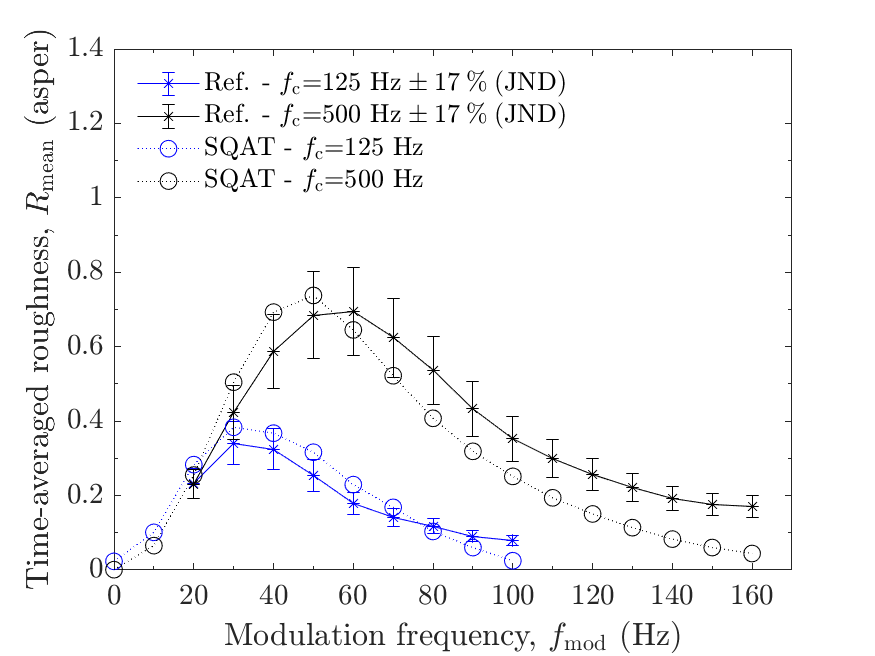
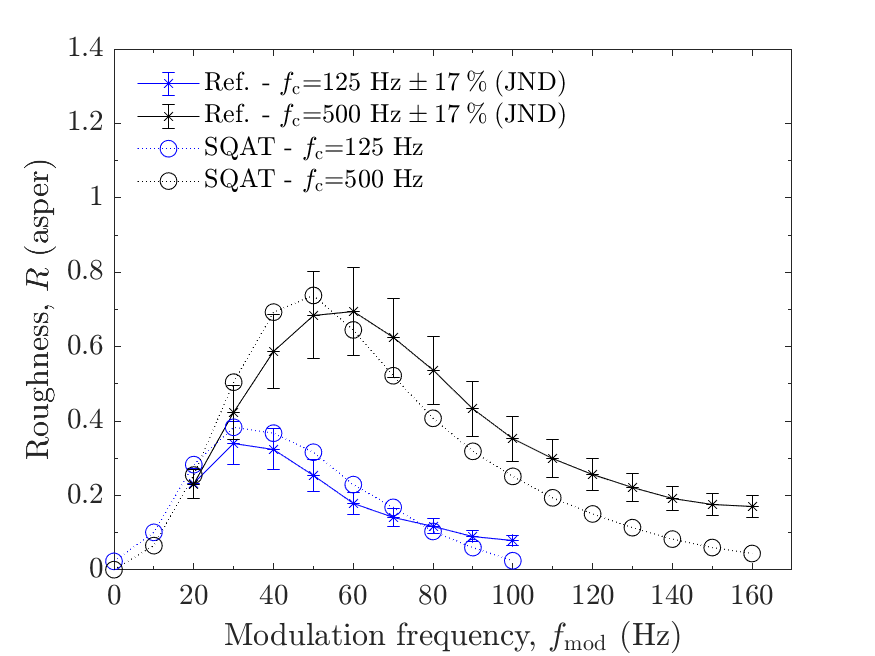
roughness validation
- fixing links of the model implementation on README.md
- fixing yaxis and limits for consistency

Changed region(s): [[0.0309, 0.0305, 0.0617, 0.8841]]

diff --git a/validation/Roughness_Daniel1997/1_AM_modulation_freq/run_validation_roughness_fmod.m b/validation/Roughness_Daniel1997/1_AM_modulation_freq/run_validation_roughness_fmod.m
@@ -26,7 +26,7 @@
 %%%%%%%%%%%%%%%%%%%%%%%%%%%%%%%%%%%%%%%%%%%%%%%%%%%%%%%%%%%%%%%%%%%%%%%%%%%
 clc; clear all; close all;
 
-save_figs = 1; %% save figs flag
+save_figs = 0; %% save figs flag
 
 %% path settings 
 
@@ -254,7 +254,7 @@ axis([0 170 0 1.4]);
      ax.YAxis.MinorTick = 'on';
      ax.YAxis.MinorTickValues = 0:0.1:1.2; 
      
-ylabel('Time-averaged roughness, $R_{\mathrm{mean}}$ (asper)','Interpreter','Latex');
+ylabel('Roughness, $R$ (asper)','Interpreter','Latex');
 xlabel('Modulation frequency, $f_{\mathrm{mod}}$ (Hz)','Interpreter','Latex');
 
 set(gcf,'color','w');
@@ -306,7 +306,7 @@ axis([0 170 0 1.4]);
      ax.YAxis.MinorTick = 'on';
      ax.YAxis.MinorTickValues = 0:0.1:1.4; 
      
-ylabel('Time-averaged roughness, $R_{\mathrm{mean}}$ (asper)','Interpreter','Latex');
+ylabel('Roughness, $R$ (asper)','Interpreter','Latex');
 xlabel('Modulation frequency, $f_{\mathrm{mod}}$ (Hz)','Interpreter','Latex');
 
 set(gcf,'color','w');
@@ -369,7 +369,7 @@ axis([0 170 0 1.8]);
      ax.YAxis.MinorTick = 'on';
      ax.YAxis.MinorTickValues = 0:0.1:2; 
      
-ylabel('Time-averaged roughness, $R_{\mathrm{mean}}$ (asper)','Interpreter','Latex');
+ylabel('Roughness, $R$ (asper)','Interpreter','Latex');
 xlabel('Modulation frequency, $f_{\mathrm{mod}}$ (Hz)','Interpreter','Latex');
 
 set(gcf,'color','w');
@@ -430,7 +430,7 @@ axis([0 170 0 1.2]);
      ax.YAxis.MinorTick = 'on';
      ax.YAxis.MinorTickValues = 0:0.1:1.2; 
      
-ylabel('Time-averaged roughness, $R_{\mathrm{mean}}$ (asper)','Interpreter','Latex');
+ylabel('Roughness, $R$ (asper)','Interpreter','Latex');
 xlabel('Modulation frequency, $f_{\mathrm{mod}}$ (Hz)','Interpreter','Latex');
 
 set(gcf,'color','w');

diff --git a/validation/Roughness_Daniel1997/4_FM_level/run_validation_roughness_FM_level.m b/validation/Roughness_Daniel1997/4_FM_level/run_validation_roughness_FM_level.m
@@ -95,7 +95,7 @@ ax.XAxis.MinorTick = 'on';
 ax.YAxis.MinorTick = 'on';
 ax.YAxis.MinorTickValues = 0:0.1:3;
      
-ylabel('$R/R_0$ (\%)','Interpreter','Latex');
+ylabel('Relative roughness, $R/R_0$ (\%)','Interpreter','Latex');
 xlabel('Sound pressure level, $L_{\mathrm{p}}$ (dB re 20 $\mu$Pa)','Interpreter','Latex');
 
 set(gcf,'color','w');
@@ -122,7 +122,7 @@ end
 
 %% function used to generate the FM signals with varying level (only for reference, not used here)
 
-function s=make_FM_fmod_fc_1600hz
+function s=il_make_FM_fmod_fc_1600hz
 %% %%%%%%%%%%%%%%%%%%%%%%%%%%%%%%%%%%%%%%%%%%%%%%%%%%%%%%%%%%%%%%%%%%%%%%%%%
 % Generates signals for roughness algorithm validation
 %
@@ -189,7 +189,7 @@ end
 end
 %% function used to generate the reference FM signal (only for reference, not used here)
 
-function s=make_FM_fmod_fc_1600hz_reference_tone
+function s=il_make_FM_fmod_fc_1600hz_reference_tone
 
 %% %%%%%%%%%%%%%%%%%%%%%%%%%%%%%%%%%%%%%%%%%%%%%%%%%%%%%%%%%%%%%%%%%%%%%%%%%
 % Generates signals for roughness algorithm validation

diff --git a/validation/Roughness_Daniel1997/3_FM_modulation_depth/run_validation_roughness_FM_fmod.m b/validation/Roughness_Daniel1997/3_FM_modulation_depth/run_validation_roughness_FM_fmod.m
@@ -108,7 +108,7 @@ ax.XAxis.MinorTick = 'on';
 ax.YAxis.MinorTick = 'on';
 ax.YAxis.MinorTickValues = 0:0.1:3;
 
-ylabel('$R/R_0$ (\%)','Interpreter','Latex');
+ylabel('Relative roughness, $R/R_0$ (\%)','Interpreter','Latex');
 xlabel('Modulation frequency, $f_{\mathrm{mod}}$ (Hz)','Interpreter','Latex');
 
 set(gcf,'color','w');
@@ -135,7 +135,7 @@ end
 
 %% function used to generate the FM signals with varying fmod (only for reference, not used here)
 
-function s = make_FM_fmod_fc_1600hz
+function s = il_make_FM_fmod_fc_1600hz
 
 %% %%%%%%%%%%%%%%%%%%%%%%%%%%%%%%%%%%%%%%%%%%%%%%%%%%%%%%%%%%%%%%%%%%%%%%%%%
 %
@@ -209,7 +209,7 @@ end
 
 %% function used to generate the reference FM signal (only for reference, not used here)
 
-function s_ref = make_FM_fmod_fc_1600hz_reference_tone
+function s_ref = il_make_FM_fmod_fc_1600hz_reference_tone
 
 %% %%%%%%%%%%%%%%%%%%%%%%%%%%%%%%%%%%%%%%%%%%%%%%%%%%%%%%%%%%%%%%%%%%%%%%%%%
 %

diff --git a/validation/Roughness_Daniel1997/2_AM_modulation_depth/run_verification_roughness_modulation_depth.m b/validation/Roughness_Daniel1997/2_AM_modulation_depth/run_verification_roughness_modulation_depth.m
@@ -114,7 +114,7 @@ end
 
 %% function used to generate the signals (only for reference, not used here)
 
-function [s,fs] = make_AM_varying_md
+function [s,fs] = il_make_AM_varying_md
 
 %% %%%%%%%%%%%%%%%%%%%%%%%%%%%%%%%%%%%%%%%%%%%%%%%%%%%%%%%%%%%%%%%%%%%%%%%%%
 % Generates amplitude modulated (AM) signals for roughness algorithm validation

diff --git a/validation/Roughness_Daniel1997/5_white_noise/run_verification_white_noise.m b/validation/Roughness_Daniel1997/5_white_noise/run_verification_white_noise.m
@@ -51,7 +51,8 @@ set(h,'PaperPositionMode','Auto','PaperUnits','Inches','PaperSize',[pos(3), pos(
 % pressure 
 yyaxis left
 plot(t,WhiteNoise);
-% axis([0 .11 -0.1 0.1]);
+axis([0 L -1 1]);
+
 ylabel('Acoustic pressure, $p$ (Pa)','Interpreter','Latex');
 xlabel('Time, $t$ (s)','Interpreter','Latex'); 
 

diff --git a/validation/Roughness_Daniel1997/3_FM_modulation_depth/README.md b/validation/Roughness_Daniel1997/3_FM_modulation_depth/README.md
@@ -1,5 +1,5 @@
 # About this code 
-The `run_validation_roughness_FM_fmod.m` code is used to verify the `Roughness_Daniel1997` implementation (see code [here](../../../../psychoacoustic_metrics/Roughness_Daniel1997/Roughness_Daniel1997.m)) of the roughness model from Daniel & Weber [1]. The verification is performed considering frequency-modulated (FM) tones with carrier frequency $f_{\mathrm{c}}=1600~\mathrm{Hz}$, frequency deviation $f_{\mathrm{dev}}=800~\mathrm{Hz}$ and sound pressure level $L_{\mathrm{p}}=60~\mathrm{dB}~ \mathrm{SPL}$ as a function of the modulation frequency $f_{\mathrm{mod}}$. The reference is the roughness $R_o$ of a FM tone with the same parameters but a modulation frequency $f_{\mathrm{mod}}=70~\mathrm{Hz}$.  
+The `run_validation_roughness_FM_fmod.m` code is used to verify the `Roughness_Daniel1997` implementation (see code [here](../../../psychoacoustic_metrics/Roughness_Daniel1997/Roughness_Daniel1997.m)) of the roughness model from Daniel & Weber [1]. The verification is performed considering frequency-modulated (FM) tones with carrier frequency $f_{\mathrm{c}}=1600~\mathrm{Hz}$, frequency deviation $f_{\mathrm{dev}}=800~\mathrm{Hz}$ and sound pressure level $L_{\mathrm{p}}=60~\mathrm{dB}~ \mathrm{SPL}$ as a function of the modulation frequency $f_{\mathrm{mod}}$. The reference is the roughness $R_o$ of a FM tone with the same parameters but a modulation frequency $f_{\mathrm{mod}}=70~\mathrm{Hz}$.  
 
 # How to use this code
 In order to run this code and reproduce the figures available in the `figs` folder, the user needs to download the dataset of sound files from zenodo <a href="https://doi.org/10.5281/zenodo.7933206" target="_blank">here</a>. The obtained folder called `validation_SQAT_v1_0` has to be included in the `sound_files` folder of the toolbox. 

diff --git a/validation/Roughness_Daniel1997/4_FM_level/README.md b/validation/Roughness_Daniel1997/4_FM_level/README.md
@@ -1,5 +1,5 @@
 # About this code 
-The `run_validation_roughness_FM_level.m` code is used to verify the `Roughness_Daniel1997` implementation (see code [here](../../../../psychoacoustic_metrics/Roughness_Daniel1997/Roughness_Daniel1997.m)) of the roughness model from Daniel & Weber [1]. The verification is performed considering frequency-modulated (FM) tones with carrier frequency $f_{\mathrm{c}}=1600~\mathrm{Hz}$, frequency deviation $f_{\mathrm{dev}}=800~\mathrm{Hz}$ and $f_{\mathrm{mod}}=70~\mathrm{Hz}$ as a function of the sound pressure level $L_{\mathrm{p}}$. The reference is the roughness $R_o$ of a FM tone with the same parameters but a sound pressure level $L_{\mathrm{p}}=60~\mathrm{dB}~ \mathrm{SPL}$.
+The `run_validation_roughness_FM_level.m` code is used to verify the `Roughness_Daniel1997` implementation (see code [here](../../../psychoacoustic_metrics/Roughness_Daniel1997/Roughness_Daniel1997.m)) of the roughness model from Daniel & Weber [1]. The verification is performed considering frequency-modulated (FM) tones with carrier frequency $f_{\mathrm{c}}=1600~\mathrm{Hz}$, frequency deviation $f_{\mathrm{dev}}=800~\mathrm{Hz}$ and $f_{\mathrm{mod}}=70~\mathrm{Hz}$ as a function of the sound pressure level $L_{\mathrm{p}}$. The reference is the roughness $R_o$ of a FM tone with the same parameters but a sound pressure level $L_{\mathrm{p}}=60~\mathrm{dB}~ \mathrm{SPL}$.
 
 # How to use this code
 In order to run this code and reproduce the figures available in the `figs` folder, the user needs to download the dataset of sound files from zenodo <a href="https://doi.org/10.5281/zenodo.7933206" target="_blank">here</a>. The obtained folder called `validation_SQAT_v1_0` has to be included in the `sound_files` folder of the toolbox. 

diff --git a/validation/Roughness_Daniel1997/2_AM_modulation_depth/README.md b/validation/Roughness_Daniel1997/2_AM_modulation_depth/README.md
@@ -1,5 +1,5 @@
 # About this code 
-The `run_verification_roughness_modulation_depth.m` code is used to verify the `Roughness_Daniel1997` implementation (see code [here](../../../../psychoacoustic_metrics/Roughness_Daniel1997/Roughness_Daniel1997.m)) of the roughness model from Daniel & Weber [1]. The verification is performed considering amplitude-modulated tones with carrier frequency $f_{\mathrm{c}}=1000~\mathrm{Hz}$, modulation frequency $f_{\mathrm{mod}}=70~\mathrm{Hz}$ and sound pressure level $L_{\mathrm{p}}=60~\mathrm{dB}~\mathrm{SPL}$ as a function of the modulation depth $m_{\mathrm{d}}$.  
+The `run_verification_roughness_modulation_depth.m` code is used to verify the `Roughness_Daniel1997` implementation (see code [here](../../../psychoacoustic_metrics/Roughness_Daniel1997/Roughness_Daniel1997.m)) of the roughness model from Daniel & Weber [1]. The verification is performed considering amplitude-modulated tones with carrier frequency $f_{\mathrm{c}}=1000~\mathrm{Hz}$, modulation frequency $f_{\mathrm{mod}}=70~\mathrm{Hz}$ and sound pressure level $L_{\mathrm{p}}=60~\mathrm{dB}~\mathrm{SPL}$ as a function of the modulation depth $m_{\mathrm{d}}$.  
 
 # How to use this code
 In order to run this code and reproduce the figures available in the `figs` folder, the user needs to download the dataset of sound files from zenodo <a href="https://doi.org/10.5281/zenodo.7933206" target="_blank">here</a>. The obtained folder called `validation_SQAT_v1_0` has to be included in the `sound_files` folder of the toolbox. 

diff --git a/validation/Roughness_Daniel1997/5_white_noise/README.md b/validation/Roughness_Daniel1997/5_white_noise/README.md
@@ -1,5 +1,5 @@
 # About this code 
-The `run_verification_modulated_white_noise.m` and `run_verification_white_noise.m` codes are used to verify the `Roughness_Daniel1997` implementation (see code [here](../../../../psychoacoustic_metrics/Roughness_Daniel1997/Roughness_Daniel1997.m)) of the roughness model from Daniel & Weber [1] for unmodulated and amplitude-modulated (AM) white noise, respectively, with the following parameters: 
+The `run_verification_modulated_white_noise.m` and `run_verification_white_noise.m` codes are used to verify the `Roughness_Daniel1997` implementation (see code [here](../../../psychoacoustic_metrics/Roughness_Daniel1997/Roughness_Daniel1997.m)) of the roughness model from Daniel & Weber [1] for unmodulated and amplitude-modulated (AM) white noise, respectively, with the following parameters: 
 
 - unmodulated white noise: rms sound pressure level $L_{\mathrm{p,rms}}=70~\mathrm{dB}~ \mathrm{SPL}$; and 
 - AM white noise: $f_{\mathrm{mod}}=70~\mathrm{Hz}$, modulation depth $m_{\mathrm{d}}=1$ and rms sound pressure level $L_{\mathrm{p,rms}}=70~\mathrm{dB}~ \mathrm{SPL}$.
